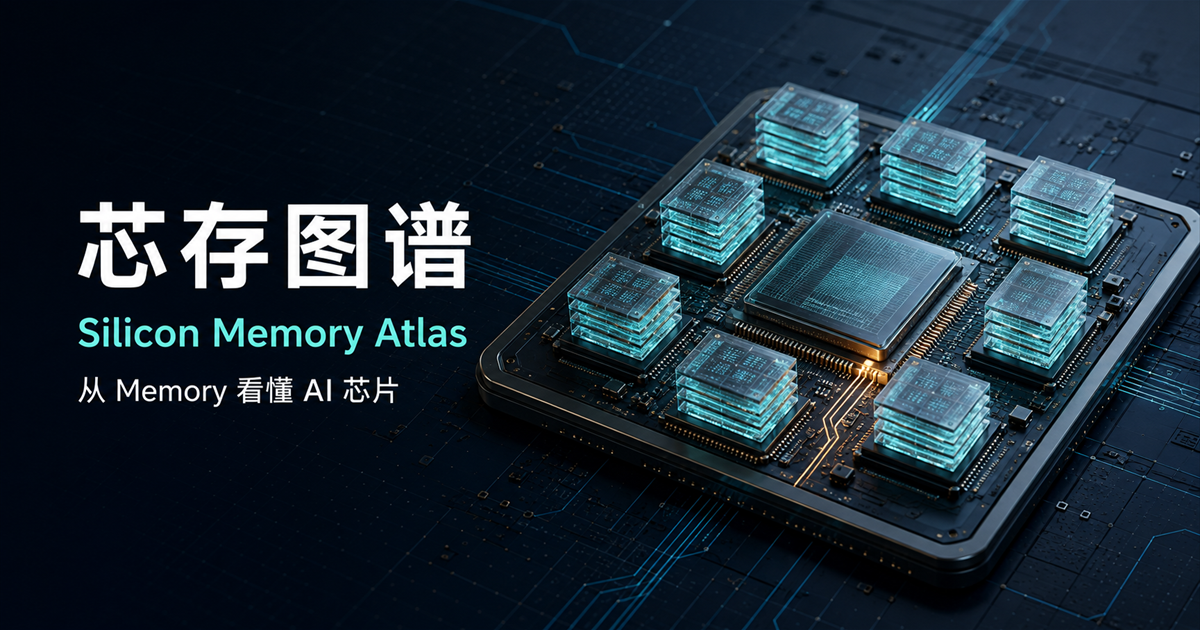
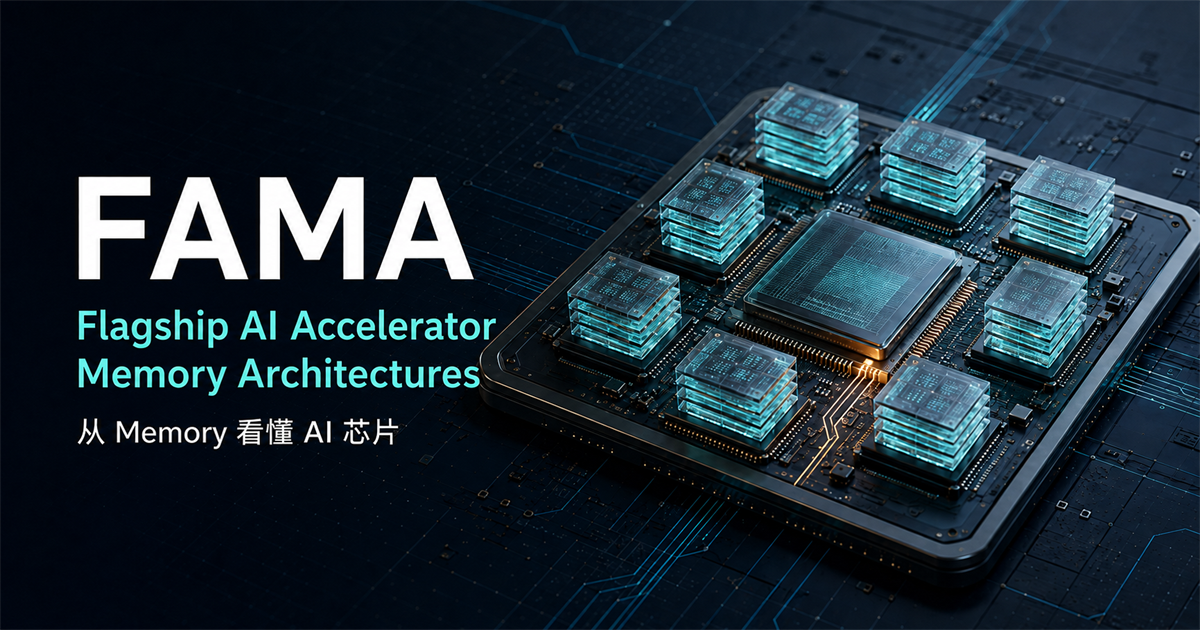
Publish FAMA static site

diff --git a/app/layout.tsx b/app/layout.tsx
@@ -18,7 +18,7 @@ const geistMono = Geist_Mono({
 
 export const metadata: Metadata = {
   metadataBase: new URL('https://yhhe.top/chipatlas/'),
-  title: '芯存图谱｜从 Memory 看懂 AI 芯片',
+  title: 'FAMA｜Flagship AI Accelerator Memory Architectures',
   description: '面向 AI 芯片研究者的存储架构、参数、技术路线与来源追踪知识库。',
   manifest: atlasPath('/manifest.webmanifest'),
   icons: {
@@ -45,28 +45,28 @@ export const metadata: Metadata = {
   appleWebApp: {
     capable: true,
     statusBarStyle: 'black-translucent',
-    title: '芯存图谱',
+    title: 'FAMA',
   },
   formatDetection: { telephone: false },
   openGraph: {
     type: 'website',
-    title: '芯存图谱 · Silicon Memory Atlas',
+    title: 'FAMA · Flagship AI Accelerator Memory Architectures',
     description: '从 Memory 看懂 AI 芯片',
     url: 'https://yhhe.top/chipatlas/',
-    siteName: '芯存图谱',
+    siteName: 'FAMA',
     locale: 'zh_CN',
     images: [
       {
         url: atlasPath('/og.png'),
         width: 1200,
         height: 630,
-        alt: '芯存图谱分享预览',
+        alt: 'FAMA 分享预览',
       },
     ],
   },
   twitter: {
     card: 'summary_large_image',
-    title: '芯存图谱 · Silicon Memory Atlas',
+    title: 'FAMA · Flagship AI Accelerator Memory Architectures',
     description: '从 Memory 看懂 AI 芯片',
     images: [atlasPath('/og.png')],
   },

diff --git a/components/install-guide.tsx b/components/install-guide.tsx
@@ -7,7 +7,7 @@ export function InstallGuide() {
         <Plus className="size-4 transition group-open:rotate-45" />添加到 iPhone
       </summary>
       <div className="fixed inset-x-4 bottom-[max(6rem,calc(env(safe-area-inset-bottom)+5rem))] z-[60] mx-auto max-w-lg rounded-[26px] border border-white/10 bg-popover p-5 shadow-2xl">
-        <h2 className="text-lg font-semibold">添加“芯存图谱”到主屏幕</h2>
+        <h2 className="text-lg font-semibold">添加“FAMA”到主屏幕</h2>
         <p className="mt-1.5 text-xs leading-5 text-muted-foreground">使用 Safari 打开公网链接，就能像普通 App 一样启动。再次点击“添加到 iPhone”可收起说明。</p>
         <ol className="mt-4 space-y-2">
           {[

diff --git a/components/site-footer.tsx b/components/site-footer.tsx
@@ -5,7 +5,7 @@ export function SiteFooter() {
   return (
     <footer className="mx-auto w-full max-w-7xl px-4 pb-28 pt-12 text-xs text-muted-foreground sm:px-8 sm:pb-10">
       <div className="flex flex-col gap-3 border-t border-white/8 pt-6 sm:flex-row sm:items-center sm:justify-between">
-        <p>芯存图谱 · 从 Memory 看懂 AI 芯片</p>
+        <p>FAMA · Flagship AI Accelerator Memory Architectures</p>
         <div className="flex gap-4">
           <a href={atlasPath('/sources/')} className="hover:text-foreground">
             来源方法

diff --git a/components/site-header.tsx b/components/site-header.tsx
@@ -25,10 +25,10 @@ export function SiteHeader() {
           </span>
           <span className="min-w-0">
             <span className="block truncate text-[9px] font-semibold uppercase tracking-[0.2em] text-primary">
-              Silicon Memory Atlas
+              Flagship AI Accelerator Memory Architectures
             </span>
             <span className="block truncate text-base font-semibold tracking-tight">
-              芯存图谱
+              FAMA
             </span>
           </span>
         </a>

diff --git a/app/sources/page.tsx b/app/sources/page.tsx
@@ -12,8 +12,8 @@ import { chips, memoryTopics } from '@/lib/catalog';
 import { atlasPath } from '@/lib/paths';
 
 export const metadata: Metadata = {
-  title: '来源库与编辑方法｜芯存图谱',
-  description: '芯存图谱的官方来源门槛、第三方阅读筛选规则、口径与核验时间。',
+  title: '来源库与编辑方法｜FAMA',
+  description: 'FAMA 的官方来源门槛、第三方阅读筛选规则、口径与核验时间。',
 };
 
 export default function SourcesPage() {

diff --git a/app/page.tsx b/app/page.tsx
@@ -28,7 +28,7 @@ export default function Home() {
           <div>
             <div className="flex flex-wrap items-center gap-2 text-xs font-medium text-primary">
               <Sparkles className="size-3.5" />
-              面向 AI 芯片与 LLM 协同设计研究
+              FAMA · 面向 AI 芯片与 LLM 协同设计研究
               <span className="rounded-full bg-primary/10 px-2.5 py-1 font-mono text-[9px]">
                 v0.3
               </span>

diff --git a/app/updates/page.tsx b/app/updates/page.tsx
@@ -14,8 +14,8 @@ import sourceStateData from '@/data/source-state.json';
 import watchData from '@/data/watch-sources.json';
 
 export const metadata: Metadata = {
-  title: '数据维护与更新监控｜芯存图谱',
-  description: '芯存图谱的官方源监控、候选审核和发布流程。',
+  title: '数据维护与更新监控｜FAMA',
+  description: 'FAMA 的官方源监控、候选审核和发布流程。',
 };
 
 type Candidate = {

diff --git a/app/vendors/page.tsx b/app/vendors/page.tsx
@@ -12,7 +12,7 @@ import { vendorRadar } from '@/data/vendor-radar';
 import { atlasPath } from '@/lib/paths';
 
 export const metadata: Metadata = {
-  title: '全球 AI 芯片厂商雷达｜芯存图谱',
+  title: '全球 AI 芯片厂商雷达｜FAMA',
   description:
     '追踪 GPU、ASIC、数据流、近存计算与定制芯片公司的产品路线和 Memory 设计。',
 };

diff --git a/app/chips/[id]/page.tsx b/app/chips/[id]/page.tsx
@@ -29,7 +29,7 @@ export async function generateMetadata({
   const { id } = await params;
   const chip = chipById(id);
   if (!chip) return {};
-  const title = `${chip.vendor} ${chip.name} 存储架构｜芯存图谱`;
+  const title = `${chip.vendor} ${chip.name} 存储架构｜FAMA`;
   const description = chip.oneLiner;
   return {
     title,

diff --git a/app/memory/[id]/page.tsx b/app/memory/[id]/page.tsx
@@ -27,7 +27,7 @@ export async function generateMetadata({
   const { id } = await params;
   const topic = memoryTopicById(id);
   if (!topic) return {};
-  const title = `${topic.name}｜存储技术专题｜芯存图谱`;
+  const title = `${topic.name}｜存储技术专题｜FAMA`;
   const description = topic.headline;
   return {
     title,

diff --git a/app/memory/page.tsx b/app/memory/page.tsx
@@ -6,7 +6,7 @@ import { memoryTopics } from '@/lib/catalog';
 import { atlasPath } from '@/lib/paths';
 
 export const metadata: Metadata = {
-  title: '存储技术专题｜芯存图谱',
+  title: '存储技术专题｜FAMA',
   description: 'HBM、LPDDR、DDR 与 HBF 的 AI 系统设计角色、工作原理与取舍。',
 };
 

diff --git a/app/chips/page.tsx b/app/chips/page.tsx
@@ -3,7 +3,7 @@ import type { Metadata } from 'next';
 import { ChipsClient } from './chips-client';
 
 export const metadata: Metadata = {
-  title: 'AI 芯片库｜芯存图谱',
+  title: 'AI 芯片库｜FAMA',
   description:
     '按 Memory、厂商与架构检索主流 AI 加速器，每个条目均附官方资料。',
 };
